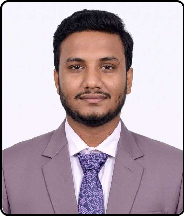
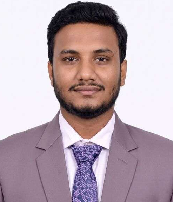
DC(ui): remove black border from Engineer resume photo and crop embedded frame

diff --git a/admin/src/features/document-studio/components/resume/ResumePreview.jsx b/admin/src/features/document-studio/components/resume/ResumePreview.jsx
@@ -319,7 +319,7 @@ export const ResumePreview = ({ data, onPrint }) => {
                 </div>
               </div>
               {personalInfo.avatarUrl && (
-                <img src={personalInfo.avatarUrl} alt="" className="w-[92px] h-[112px] object-cover border border-black shrink-0" />
+                <img src={personalInfo.avatarUrl} alt="" className="w-[92px] h-[112px] object-cover object-top rounded-[2px] shrink-0" />
               )}
             </div>
 
@@ -337,17 +337,17 @@ export const ResumePreview = ({ data, onPrint }) => {
                   <thead>
                     <tr>
                       {['Certificate', 'Institution', 'GPA/CGPA', 'Passing Year'].map(h => (
-                        <th key={h} className="border border-black px-1.5 py-0.5 font-bold">{h}</th>
+                        <th key={h} className="border-b border-black px-1.5 py-0.5 font-bold">{h}</th>
                       ))}
                     </tr>
                   </thead>
                   <tbody>
                     {education.map(edu => (
                       <tr key={edu.id} className="align-top">
-                        <td className="border border-black px-1.5 py-0.5">{edu.degree}</td>
-                        <td className="border border-black px-1.5 py-0.5">{edu.institution}{edu.location ? `, ${edu.location}` : ''}</td>
-                        <td className="border border-black px-1.5 py-0.5">{edu.grade}</td>
-                        <td className="border border-black px-1.5 py-0.5">{edu.endDate}</td>
+                        <td className="border-b border-black/20 px-1.5 py-0.5">{edu.degree}</td>
+                        <td className="border-b border-black/20 px-1.5 py-0.5">{edu.institution}{edu.location ? `, ${edu.location}` : ''}</td>
+                        <td className="border-b border-black/20 px-1.5 py-0.5">{edu.grade}</td>
+                        <td className="border-b border-black/20 px-1.5 py-0.5">{edu.endDate}</td>
                       </tr>
                     ))}
                   </tbody>
